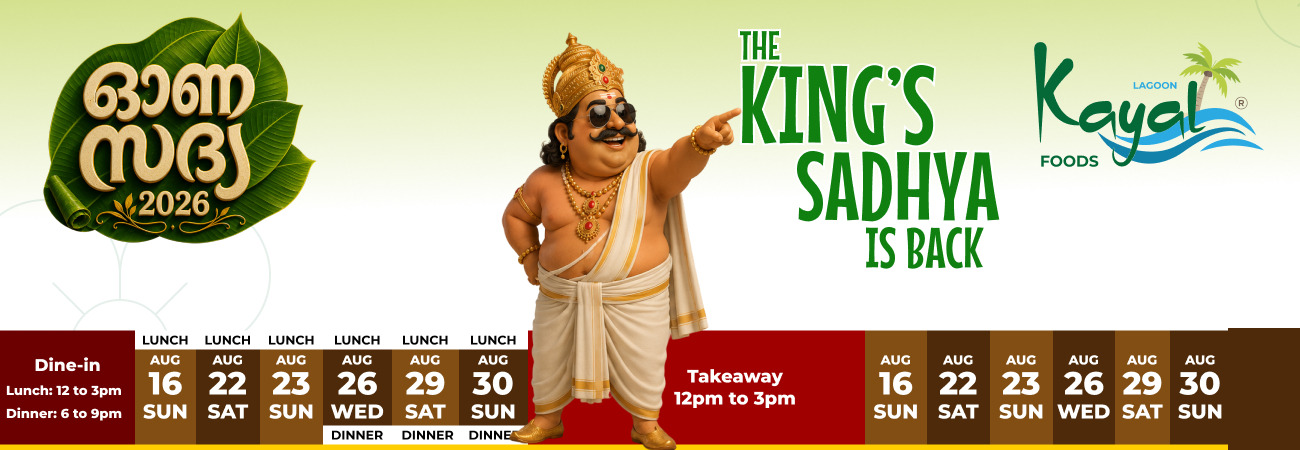
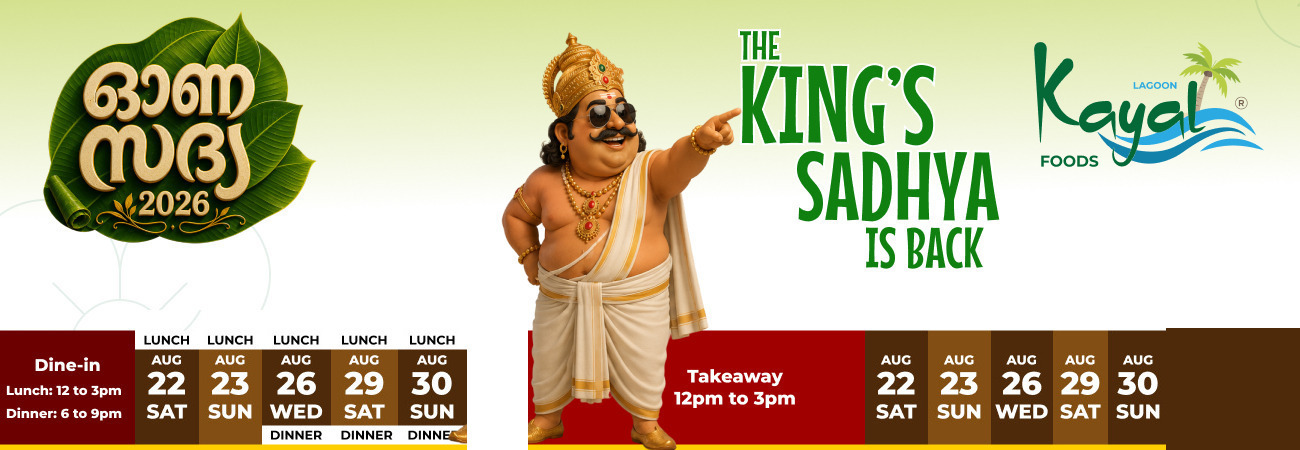
Close Aug 16 to new Onam Sadhya bookings (dine-in and takeaway)
Removes 2026-08-16 from both dineInDates and takeawayDates, and
crops it from both rows of the hero banner's date strip. Existing
confirmed bookings for that day (3 dine-in, 4 takeaway, 1 pending)
are untouched and stay reachable in Kitchen via the date-union fix
from the Aug 15 change.

Changed region(s): [[0.6462, 0.7156, 0.9538, 1.0], [0.0923, 0.7467, 0.4308, 1.0]]

diff --git a/onam26/data/onam-event.ts b/onam26/data/onam-event.ts
@@ -21,7 +21,6 @@ export const onamEvent = {
 
   // 'YYYY-MM-DD'
   dineInDates: [
-    "2026-08-16",
     "2026-08-22",
     "2026-08-23",
     "2026-08-26",
@@ -29,7 +28,6 @@ export const onamEvent = {
     "2026-08-30",
   ],
   takeawayDates: [
-    "2026-08-16",
     "2026-08-22",
     "2026-08-23",
     "2026-08-26",
